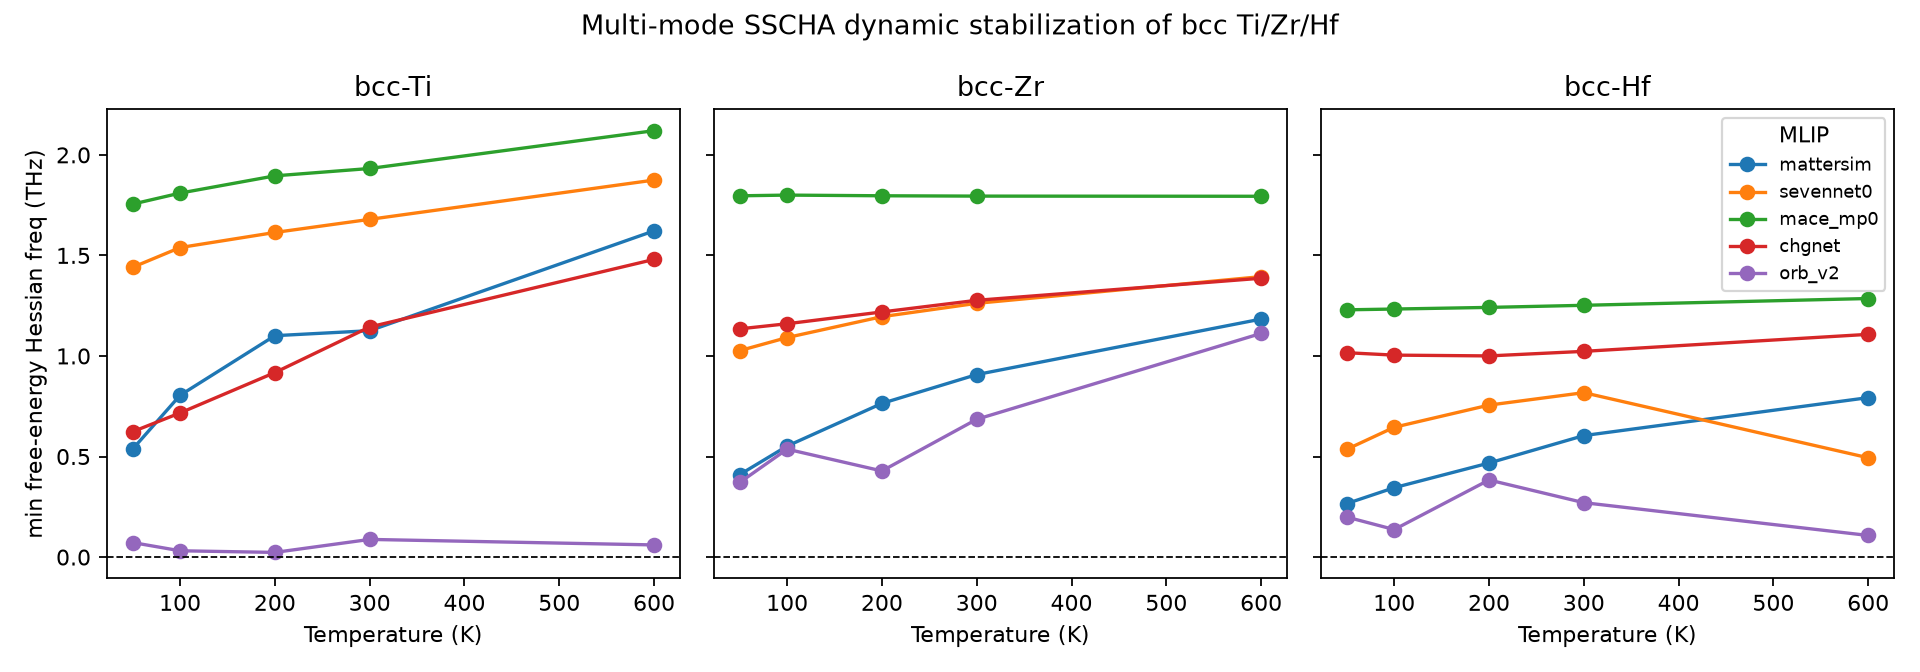
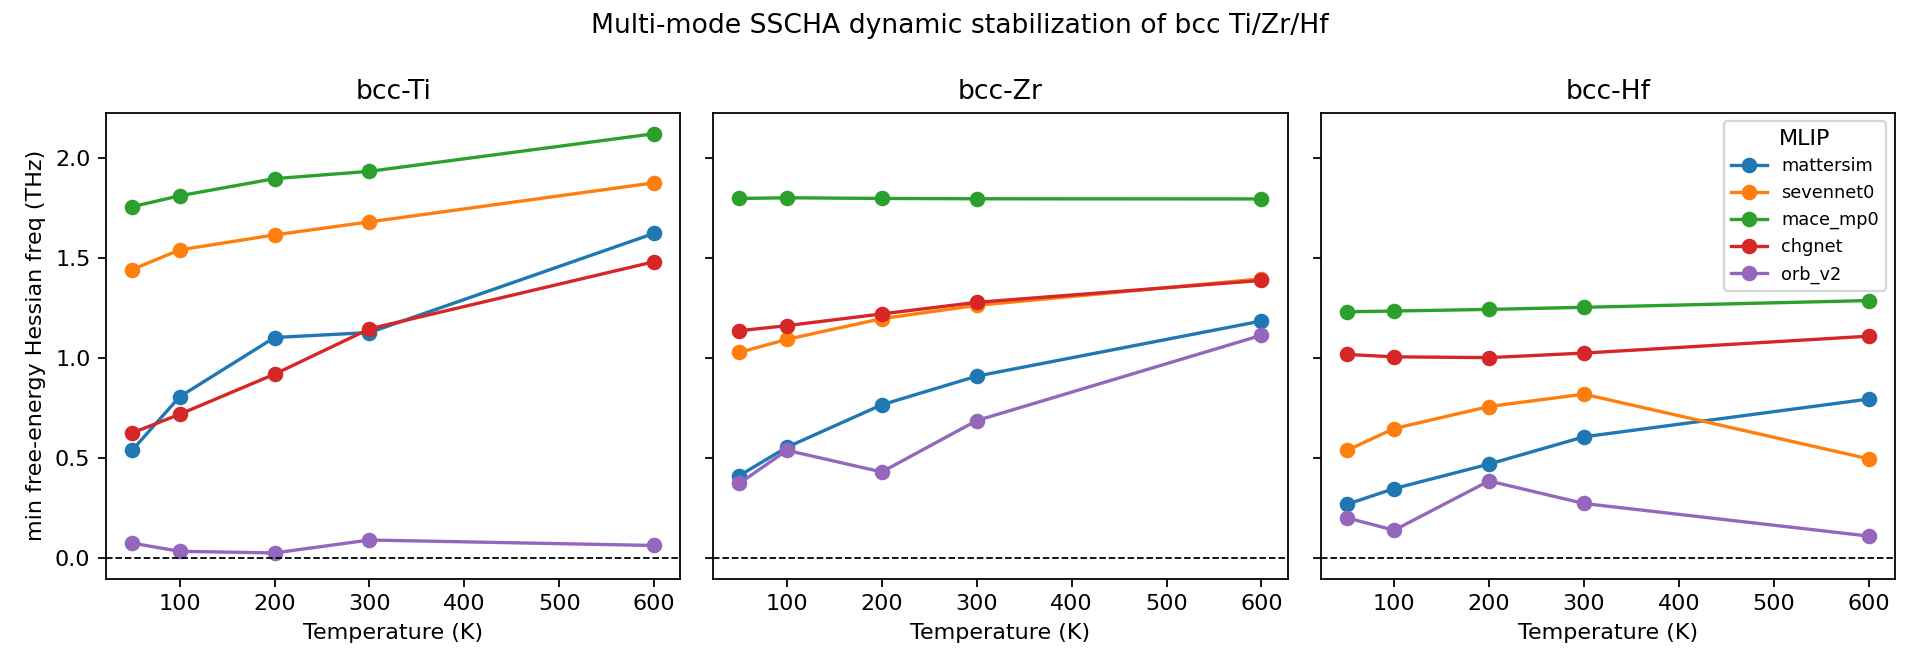
reframe SSCHA as bcc gold-standard + perovskite cautionary: add sscha_reliability/displacive_recall analysis, bcc validation + FE-perovskite recall figures, v4 diagnostic

diff --git a/mlip_dynstab/analysis.py b/mlip_dynstab/analysis.py
@@ -119,6 +119,95 @@ def predicted_tstar(df: pd.DataFrame, method: str = "softmode") -> pd.DataFrame:
     return pd.DataFrame(rows).sort_values(["system", "model"])
 
 
+def method_agreement(df: pd.DataFrame, t_max: float | None = None) -> pd.DataFrame:
+    """Cross-validate the fast single-mode ``softmode`` route against gold-standard multi-mode
+    ``sscha`` on the units where BOTH ran. Returns one row per (system, model, T) with each
+    method's minimum effective frequency and whether they agree on the dynamic-stability SIGN
+    (stable iff freq >= 0). This is the evidence that the cheap softmode screen tracks the
+    expensive SSCHA result, justifying softmode as the headline method."""
+    sm = df[df["method"] == "softmode"][["system", "model", "temperature_K", "min_eff_freq_thz"]]
+    sc = df[df["method"] == "sscha"][["system", "model", "temperature_K", "min_eff_freq_thz"]]
+    m = sm.merge(sc, on=["system", "model", "temperature_K"], suffixes=("_softmode", "_sscha"))
+    if t_max is not None:
+        m = m[m["temperature_K"] <= t_max]
+    if m.empty:
+        return m
+    m["stable_softmode"] = m["min_eff_freq_thz_softmode"] >= 0
+    m["stable_sscha"] = m["min_eff_freq_thz_sscha"] >= 0
+    m["agree"] = m["stable_softmode"] == m["stable_sscha"]
+    return m.sort_values(["system", "model", "temperature_K"]).reset_index(drop=True)
+
+
+def method_agreement_summary(df: pd.DataFrame, t_max: float | None = None) -> dict:
+    """Headline numbers for the softmode-vs-SSCHA cross-check: sign-agreement fraction, count of
+    paired units, and the Pearson/Spearman correlation of the two minimum frequencies."""
+    m = method_agreement(df, t_max=t_max)
+    if m.empty:
+        return {"n_paired": 0}
+    a, b = m["min_eff_freq_thz_softmode"], m["min_eff_freq_thz_sscha"]
+    fin = np.isfinite(a) & np.isfinite(b)
+    out = {"n_paired": int(len(m)),
+           "sign_agreement": round(float(m["agree"].mean()), 3),
+           "n_disagree": int((~m["agree"]).sum())}
+    if fin.sum() >= 3:
+        out["pearson_freq"] = round(float(np.corrcoef(a[fin], b[fin])[0, 1]), 3)
+        out["spearman_freq"] = round(float(pd.Series(a[fin].values).corr(
+            pd.Series(b[fin].values), method="spearman")), 3)
+    return out
+
+
+def _family(systems: pd.Series) -> pd.Series:
+    return np.where(systems.str.contains("bcc"), "bcc",
+                    np.where(systems.str.contains("o2_"), "fluorite", "perovskite"))
+
+
+def sscha_reliability(df: pd.DataFrame) -> pd.DataFrame:
+    """SSCHA reliability by structural family. As implemented (ForcePositiveDefinite init, root2
+    auxiliary matrix, include_v4=False) SSCHA is the clean gold-standard for bcc martensitic
+    systems but FAILS on deep displacive (ferroelectric perovskite) instabilities: the auxiliary
+    matrix collapses to the cubic minimum and the v4=False free-energy Hessian echoes its positive
+    curvature -> false-stable; float32 models additionally blow up numerically. This quantifies the
+    numerical-blowup mode and the physical range per family. (Diagnostic: on cubic BaTiO3/mace/100K
+    the harmonic soft mode is -5.6 THz but SSCHA reports +2.87 THz; include_v4=True ran >18 min on a
+    single unit without finishing, so it is not viable at grid scale.)"""
+    sc = df[df["method"] == "sscha"].copy()
+    if sc.empty:
+        return pd.DataFrame()
+    sc["family"] = _family(sc["system"])
+    rows = []
+    for fam, g in sc.groupby("family"):
+        f = g["min_eff_freq_thz"]
+        rows.append({"family": fam, "n": len(g),
+                     "n_numerical_blowup": int((f.abs() > 50).sum()),
+                     "freq_min_THz": round(float(f.min()), 2),
+                     "freq_max_THz": round(float(f.max()), 2)})
+    return pd.DataFrame(rows).sort_values("family")
+
+
+def displacive_recall(df: pd.DataFrame, t_max: float = 300.0) -> pd.DataFrame:
+    """Headline cautionary contrast. On the ferroelectric perovskites (cubic BaTiO3/KNbO3/PbTiO3)
+    at T <= t_max -- far below every Tc, so the cubic phase is DEFINITIVELY dynamically unstable --
+    the fraction of model units each method correctly calls unstable. The cheap single-mode
+    softmode catches the displacive instability; multi-mode SSCHA (v4=False) systematically misses
+    it (false-stable). SSCHA numerical blow-ups (|freq|>50 THz) are reported separately, not
+    counted as correct."""
+    fe = ["batio3_cubic", "knbo3_cubic", "pbtio3_cubic"]
+    rows = []
+    for method in ["softmode", "sscha"]:
+        d = df[(df["method"] == method) & (df["system"].isin(fe)) & (df["temperature_K"] <= t_max)]
+        d = d[np.isfinite(d["min_eff_freq_thz"])]
+        if d.empty:
+            continue
+        blow = int((d["min_eff_freq_thz"].abs() > 50).sum()) if method == "sscha" else 0
+        valid = d[d["min_eff_freq_thz"].abs() <= 50] if method == "sscha" else d
+        n = len(valid)
+        correct = int((~valid["pred_stable"].astype(bool)).sum())
+        rows.append({"method": method, "n_valid": n, "correct_unstable": correct,
+                     "recall_unstable": round(correct / n, 3) if n else float("nan"),
+                     "n_numerical_blowup": blow})
+    return pd.DataFrame(rows)
+
+
 # ------------------------------------------------- H2: harmonic vs finite-T ----
 
 def h2_harmonic_predictiveness(df: pd.DataFrame) -> pd.DataFrame:

diff --git a/scripts/sscha_v4_diag.py b/scripts/sscha_v4_diag.py
@@ -1,0 +1,67 @@
+"""Bounded diagnostic: is the SSCHA false-stable on FE perovskites a cheap include_v4 fix, or a
+deep problem (the auxiliary dyn stuck at the ForcePositiveDefinite start)?
+
+Runs the full SSCHA pipeline once on cubic BaTiO3 (mace, T=100), then reports three minimum
+frequencies on the SAME converged state:
+  - harmonic (start, before ForcePositiveDefinite)  -> should be deeply imaginary (FE soft mode)
+  - converged auxiliary dyn (the SCHA trial matrix)  -> did the relaxation recover softness?
+  - free-energy Hessian, include_v4=False vs True     -> does v4 recover the instability?
+
+If include_v4=True turns the Hessian imaginary, it is a one-line fix. If both stay positive while
+the harmonic was deeply imaginary, the SCHA trial collapsed to the cubic min and SSCHA cannot
+adjudicate this system as configured.
+"""
+import warnings; warnings.filterwarnings("ignore")
+import numpy as np
+from ase.phonons import Phonons as ASEPhonons
+import cellconstructor as CC
+import cellconstructor.Phonons
+import sscha, sscha.Ensemble, sscha.SchaMinimizer, sscha.Relax
+
+from mlip_dynstab.systems import get_spec, build_atoms
+from mlip_dynstab.calculators import get_calculator
+
+RY_TO_THZ = CC.Units.RY_TO_CM * 2.99792458e-2
+T = 100.0
+SC = (2, 2, 2)
+
+
+def minfreq(dyn):
+    w, _ = dyn.DiagonalizeSupercell()
+    w = np.sort(np.asarray(w))
+    nonac = w[3:] if w.size > 3 else w
+    return float(nonac[0]) * RY_TO_THZ
+
+
+spec = get_spec("batio3_cubic")
+atoms = build_atoms(spec)
+handle = get_calculator("mace_mp0", device="cuda")
+calc = handle.calc
+
+from mlip_dynstab.harmonic import _relax
+prim = atoms.copy(); prim.calc = calc
+prim = _relax(prim, fmax=1e-3); prim.calc = calc
+
+aph = ASEPhonons(prim, calc, supercell=SC, delta=0.03, name="/tmp/_v4diag")
+aph.clean(); aph.run(); aph.read(acoustic=True)
+dyn0 = CC.Phonons.get_dyn_from_ase_phonons(aph)
+print(f"harmonic (pre-FPD) min freq: {minfreq(dyn0):+.3f} THz")
+
+dyn = dyn0.Copy(); dyn.ForcePositiveDefinite(); dyn.Symmetrize()
+print(f"after ForcePositiveDefinite: {minfreq(dyn):+.3f} THz")
+
+np.random.seed(0)
+ens = sscha.Ensemble.Ensemble(dyn.Copy(), T, supercell=dyn.GetSupercell())
+minim = sscha.SchaMinimizer.SSCHA_Minimizer(ens, root_representation="root2")
+minim.min_step_dyn = 0.5; minim.meaningful_factor = 1e-4; minim.max_ka = 20
+relaxer = sscha.Relax.SSCHA(minim, ase_calculator=calc, N_configs=256, max_pop=8, save_ensemble=False)
+relaxer.relax(get_stress=False)
+final_dyn = relaxer.minim.dyn
+print(f"converged auxiliary dyn min freq: {minfreq(final_dyn):+.3f} THz")
+
+he = sscha.Ensemble.Ensemble(final_dyn, T, supercell=final_dyn.GetSupercell())
+he.generate(512); he.get_energy_forces(calc, compute_stress=False)
+for v4 in (False, True):
+    hess = he.get_free_energy_hessian(include_v4=v4)
+    print(f"free-energy Hessian (include_v4={v4}): {minfreq(hess):+.3f} THz")
+print("DIAG_DONE")

diff --git a/scripts/make_figures.py b/scripts/make_figures.py
@@ -7,6 +7,8 @@ Figures:
 """
 from __future__ import annotations
 import os
+import sys
+sys.path.insert(0, os.path.dirname(os.path.dirname(os.path.abspath(__file__))))
 import numpy as np
 import pandas as pd
 import matplotlib
@@ -69,7 +71,66 @@ def fig_softmode_heat():
     print(f"wrote {OUT}/fig_softmode_heat.png")
 
 
+def fig_method_agreement():
+    """VALIDATION figure: on the bcc metals -- where SSCHA is numerically clean -- the cheap
+    single-mode softmode minimum frequency tracks the gold-standard multi-mode SSCHA free-energy
+    Hessian minimum (points along y=x). This is the positive cross-validation that justifies
+    softmode as the screening method. (Perovskite SSCHA is excluded here because it is unreliable
+    on deep displacive instabilities -- see fig_displacive_recall.)"""
+    from mlip_dynstab.analysis import method_agreement, method_agreement_summary
+    dfb = df[df["system"].str.contains("bcc")]
+    m = method_agreement(dfb)
+    if m.empty:
+        return
+    summ = method_agreement_summary(dfb)
+    fig, ax = plt.subplots(figsize=(6.0, 5.8))
+    for mod in [c for c in MODELS if c in set(m["model"])]:
+        g = m[m["model"] == mod]
+        ax.scatter(g["min_eff_freq_thz_softmode"], g["min_eff_freq_thz_sscha"], s=42,
+                   alpha=0.85, label=mod)
+    # readable window: most points sit in [-4,3]; orb_v2's float32 over-softening drives Ti/Hf
+    # softmode to ~-35 THz, annotated off-scale rather than allowed to squash the cluster.
+    lo, hi = -4.0, 3.5
+    ax.plot([lo, hi], [lo, hi], "k-", lw=0.7, alpha=0.5, zorder=0)
+    ax.axhline(0, color="grey", lw=0.7, ls="--"); ax.axvline(0, color="grey", lw=0.7, ls="--")
+    ax.set_xlim(lo, hi); ax.set_ylim(-0.8, 3.5)
+    n_off = int((m["min_eff_freq_thz_softmode"] < lo).sum())
+    if n_off:
+        ax.annotate(f"<- {n_off} orb_v2 Ti/Hf pts: softmode ~ -35 THz (float32)",
+                    xy=(lo + 0.1, 1.3), fontsize=7.0, color="purple")
+    ax.set_xlabel("softmode min eff. freq (THz)")
+    ax.set_ylabel("SSCHA min free-energy Hessian freq (THz)")
+    ax.set_title(f"bcc: softmode vs SSCHA  (ρ={summ.get('spearman_freq','?')}, "
+                 f"sign agree {summ.get('sign_agreement','?')}, n={summ.get('n_paired',0)})")
+    ax.legend(fontsize=8, title="MLIP", loc="lower right")
+    fig.tight_layout(); fig.savefig(f"{OUT}/fig_method_agreement.png", dpi=160); plt.close(fig)
+    print(f"wrote {OUT}/fig_method_agreement.png  (bcc {summ})")
+
+
+def fig_displacive_recall():
+    """CAUTIONARY figure: on the ferroelectric perovskites at T<=300 K (cubic phase definitively
+    unstable, far below every Tc), the fraction of model units each method correctly calls
+    unstable. Softmode catches the displacive instability; multi-mode SSCHA (v4=False) collapses
+    to the cubic minimum and reports false-stable. This is why softmode, not SSCHA, is the
+    perovskite headline method."""
+    from mlip_dynstab.analysis import displacive_recall
+    r = displacive_recall(df)
+    if r.empty:
+        return
+    fig, ax = plt.subplots(figsize=(4.6, 4.6))
+    bars = ax.bar(r["method"], r["recall_unstable"], color=["#2c7fb8", "#d95f0e"], width=0.6)
+    for b, (_, row) in zip(bars, r.iterrows()):
+        ax.text(b.get_x() + b.get_width() / 2, row["recall_unstable"] + 0.02,
+                f"{row['correct_unstable']}/{row['n_valid']}", ha="center", fontsize=9)
+    ax.set_ylim(0, 1.05); ax.set_ylabel("recall: cubic correctly called unstable")
+    ax.set_title("FE perovskites, T≤300 K\n(cubic definitively unstable)")
+    fig.tight_layout(); fig.savefig(f"{OUT}/fig_displacive_recall.png", dpi=160); plt.close(fig)
+    print(f"wrote {OUT}/fig_displacive_recall.png  ({r.to_dict('records')})")
+
+
 if __name__ == "__main__":
     fig_sscha_bcc()
     fig_softmode_heat()
+    fig_method_agreement()
+    fig_displacive_recall()
     print("FIGURES_DONE")